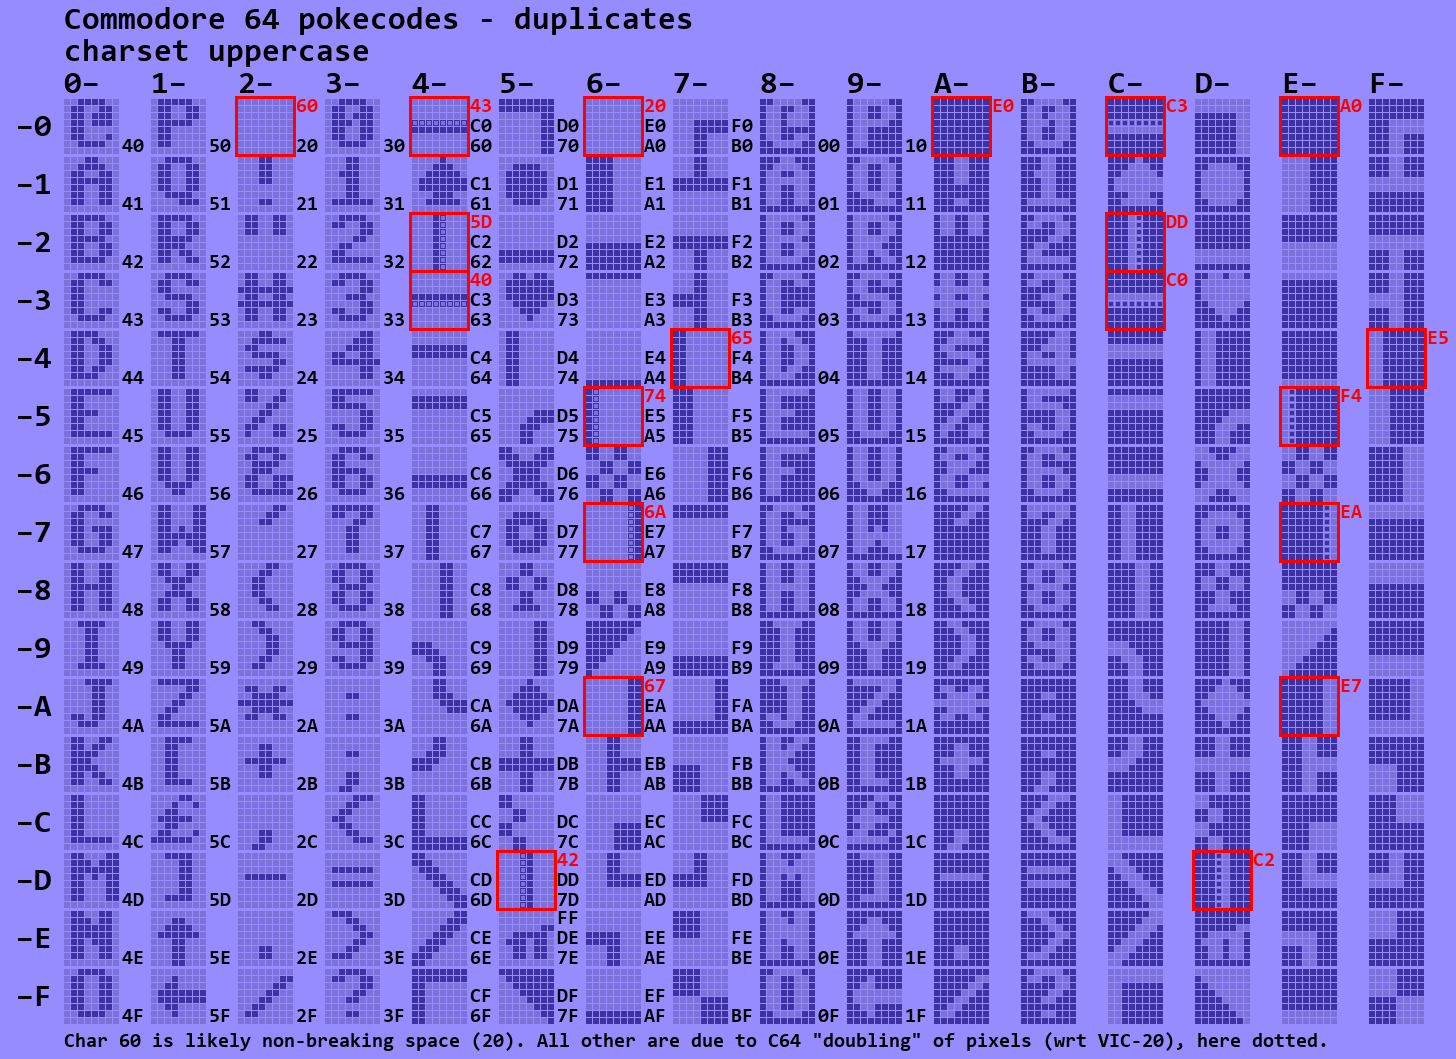
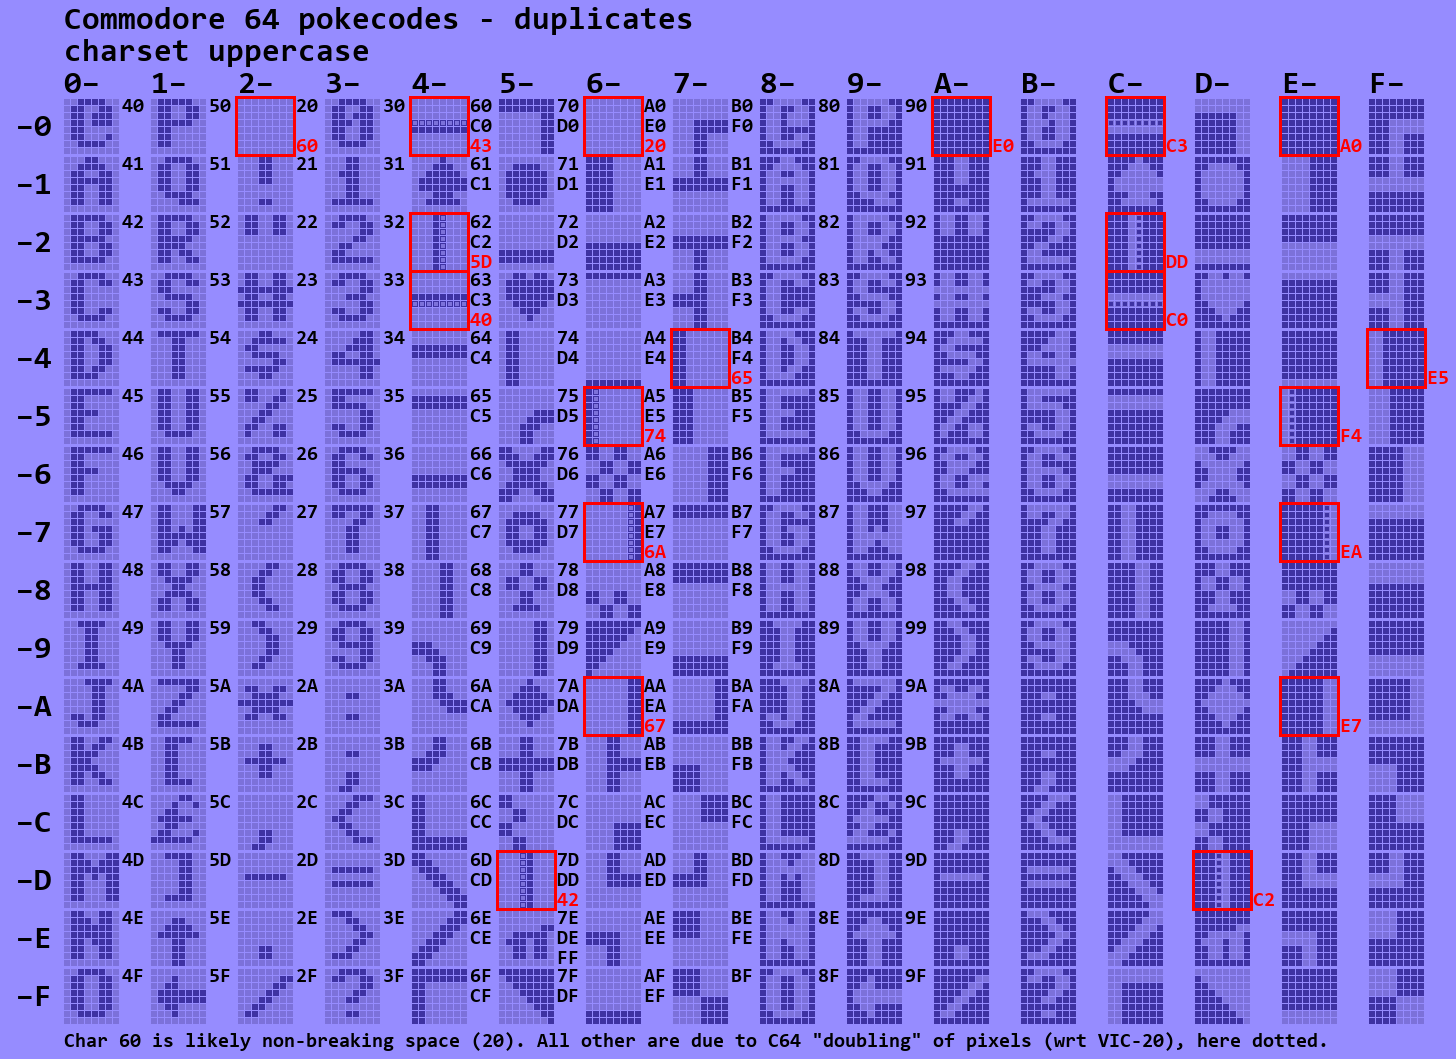
ASCII

diff --git a/c64chars/app.py b/c64chars/app.py
@@ -176,7 +176,7 @@ def circle(draw,pokecode,color,label) :
   dst_py = dst_marginy0 + dst_charsepy + cy*dst_chary
   shape = [(dst_px-width,dst_py-width),(dst_px+dst_charbx+width-1,dst_py+dst_charby+width-1)]
   draw.rectangle(shape,outline=color,width=width)
-  draw.text( (dst_px + dst_charbx + 3,dst_py + dst_charby - dst_font_ascii*3 + 3), label, color, font=dst_ascii)
+  draw.text( (dst_px + dst_charbx + 3,dst_py + dst_charby - dst_font_ascii*1 + 3), label, color, font=dst_ascii)
 
 
 def table(charset) :
@@ -214,15 +214,15 @@ def table(charset) :
       dst_cy = 0 + dst_marginy0 + dst_charsepy + cy*dst_chary + dst_chary/2 - dst_font_labels/2
       dst_draw.text( (dst_cx,dst_cy), f"–{cy%0x100:X}", dst_colfg, font=dst_labels)
     for ascii in range(256) :
-      shift=1
-      if     0 <= ascii <= 31: pokecode= ascii+128
+      shift=3
+      if     0 <= ascii <= 31: continue
       elif  32 <= ascii <= 63: pokecode= ascii
       elif  64 <= ascii <= 95: pokecode= ascii-64
       elif  96 <= ascii <=127: pokecode= ascii-32
-      elif 128 <= ascii <=159: continue # pokecode= ascii; shift=2
+      elif 128 <= ascii <=159: pokecode= ascii; shift=3
       elif 160 <= ascii <=191: pokecode= ascii-64
       elif 192 <= ascii <=254: pokecode= ascii-128; shift=2
-      elif 255 <= ascii <=255: pokecode= ascii-161; shift=3
+      elif 255 <= ascii <=255: pokecode= ascii-161; shift=1
       cx = pokecode // num_cx
       cy = pokecode % num_cx
       dst_px = dst_marginx + dst_charsepx + cx*dst_charx + dst_charbx + 3
@@ -297,7 +297,7 @@ def main(charset,basename) :
   draw.text( (dst_marginx+dst_charsepx,dst_offsety), "Commodore 64 pokecodes - block graphics", dst_colfg, font=dst_labels)
   draw.text( (dst_marginx+dst_charsepx,dst_marginy0+dst_charsepy+num_cy*dst_chary+dst_offsety), "A set of characters for low resolution (80×50) monochrome graphics.", dst_colfg, font=dst_ascii)
   for ix,block in enumerate([32,126,124,226,123,97,255,236,108,127,225,251,98,252,254,160]) :
-    circle(draw,block,"red",f"#{ix}")
+    circle(draw,block,"red",f"#{ix:X}")
   blocks.save(basename+'-4blocks.png')
   
   verfill=img.copy()

diff --git a/c64chars/readme.md b/c64chars/readme.md
@@ -9,12 +9,12 @@ The character management in the C64 is a bit complex.
 
 - There are two character sets: the default (standard, graphics or upper case) and alternate (text or lower case) set.
 - In one character set (of 256 characters), the upper 128 are the reverse video of the lower 128 characters (all pixels flipped).
-- There is a difference between ASCII codes (or PETSCII if you want) and screen pokecodes.
+- There is a difference between ASCII codes (or PETSCII if you want) and screen poke-codes.
 - Several glyphs ("the specific shape, design, or representation of a character", i.e. the character bitmaps) are duplicated.
 
 This project was an attempt to clarify for myself how the standard set looks like,
 how characters can work together to form bigger "ACSII art",
-and how the mapping from pokecodes to ASCII works out.
+and how the mapping from poke-codes to ASCII works out.
 
 
 ## Process
@@ -31,25 +31,24 @@ in this repo.
 
 ## Standard
 
-The first table that is generated just shows all glyphs in a matrix organized according to their pokecodes.
+The first table that is generated just shows all glyphs in a matrix organized according to their poke-codes.
 
 ![Standard table](c64fontromhi-1plain.png)
 
 The ASCII code that produces a glyph is printed in small (black) font to the right of it.
-For example the glyph with pokecode 0x5E (π) is associated to 3 ASCII codes
+For example the glyph with poke-code 0x5E (π) is associated to 3 ASCII codes
 
 ![ASCII](ascii.png)
 
-In general, the mapping from ASCII to pokecodes (glyphs) is in chunks of 32 (two columns).
-But the ASCII mapping still confuses me. 
-For example, I cannot get ASCII codes 0x80-0x9F to do/print anything.
+In general, the mapping from ASCII to poke-codes (glyphs) is in chunks of 32 (two columns).
+But the ASCII mapping still confuses me; see section [ASCII](#ascii) for my research results.
 
 
 ## Duplicates
 
 One of the things that puzzled me is why there are duplicate glyphs.
 My Python script finds them all.
-There quite some, see the red encircled ones below (with in red the pokecode of the duplicate).
+There quite some, see the red encircled ones below (with in red the poke-code of the duplicate).
 
 ![Duplicate glyphs](c64fontromhi-2dups.png)
 
@@ -67,7 +66,7 @@ To mitigate this Commodore made the characters fat: in horizontal
 direction there are always at least two similar colored pixels.
 This "double pixel policy" is very clear when comparing the C64 and VIC-20 tables above. 
 
-It also meant that the vertical line character with pokecode 0x42,
+It also meant that the vertical line character with poke-code 0x42,
 a single line in the VIC-20 had to doubled. But so had 0x5D, and 
 the result is that they are identical on the C64.
 
@@ -189,6 +188,67 @@ For me the least useful glyphs do a sort of gray scaling via dithering.
 ![Dithering](c64fontromhi-13dither.png)
 
 
+
+## ASCII
+
+There is no _function_ to convert an ASCII code to a poke-code.
+But we can print an ASCII character to the screen, and then peek the screen memory to 
+find the poke-code. That is what this program does.
+
+![ASCI 2 poke-code](ascii2peek.jpg)
+
+We know that multiple ASCII codes maps to one poke-code. 
+The array `P$(x)` records all ASCII codes (as two character hex string) that result
+in poke-code `x`. If an ASCII code does not map to a poke code, it is appended
+to string `Q$`. The subroutine at lines 60-75 converts and ASCII code in `A` 
+to a two character hex string in `A$`.
+
+Line 15-40 loops over all ASCII codes.
+On line 20 we home the cursor, overwrite the home position with a space and then 
+cursor-left to set the cursor back to its home position. Since several ASCII codes 
+change the cursor color, we also print a change-to-light-blue in order not to
+get too much chaos on the screen. Finally we print the
+ASCII code under investigation `CHR$(A)`; and look up the poke-code `P=PEEK(1024)`.
+
+If character `A` is a bit special (like switching cursor color), 
+it doesn't change the home location, so `P` ends up as 32.
+So only if `P` is not 32, we record the ASCII value `A` as a result for poke-code `P`
+(line 25). If `P` is 32 it could be that we really printed the space,
+this special case is dealt with in line 30. Line 35 collects all ASCII code
+that print nothing to the screen.
+
+The table is printed by lines 42-55. It is a bit messy, because I wanted the whole 
+table to fit on the screen. Line 42 clears the screen, switches to light-blue and 
+(re)activates the upper case fonts. Variable `C` records how many characters have
+been printed. By spoofing a line overflow (`C=40`) a new line will be started
+prefixed with a poke-code.
+
+Line 45 loops over all poke-codes; the loop variable is called `A` (instead of maybe `P`)
+because subroutine 60 is called so that `A$` holds the two character hex string matching `A`.
+The rest of the line checks if poke-code `A` has any ASCII codes, if not a `-` will 
+be printed without a separator (so `S$=""`) to save screen space.
+
+Line 50 checks if all ASCII codes associated with the current poke-code `A`, fit on the 
+current line. If not, a new line is started, and the current poke-code is printed with a colon.
+Line 53 prints all ASCII codes associated with the poke-code `A` and updates column count (`C`).
+Line 55 ends the program after printing all non-printable ASCII codes (`Q$`).
+
+This is the result.
+
+![poke-code with the ASCII](peek2ascii.jpg)
+
+Note that
+ - poke-codes 00-1F are produced by ASCII codes 40-5F.
+ - poke-codes 20-3F are produced by ASCII codes 20-3F - same ones.
+ - poke-codes 40-5F are produced by ASCII codes 60-7F and also by C0-DF.
+ - poke-codes 60-7F are produced by ASCII codes A0-BF and also by E0-FF.
+ - one special case is ASCII code FF it maps to 5E instead of 7F.
+ - poke-codes 80-FF have no associated ASCII code.
+ - ASCII codes 00-1F and 80-9F do not map to poke-codes.
+ - The tables in the previous chapter do list ASCII codes for poke-codes 80-9F.
+   Printing `CHR$(9*16+3)` does not print a reverse video `S`.
+   However if you print a reverse video `S` it does correspond to ASCII code 0x93.
+   
 
 ## Links
 
